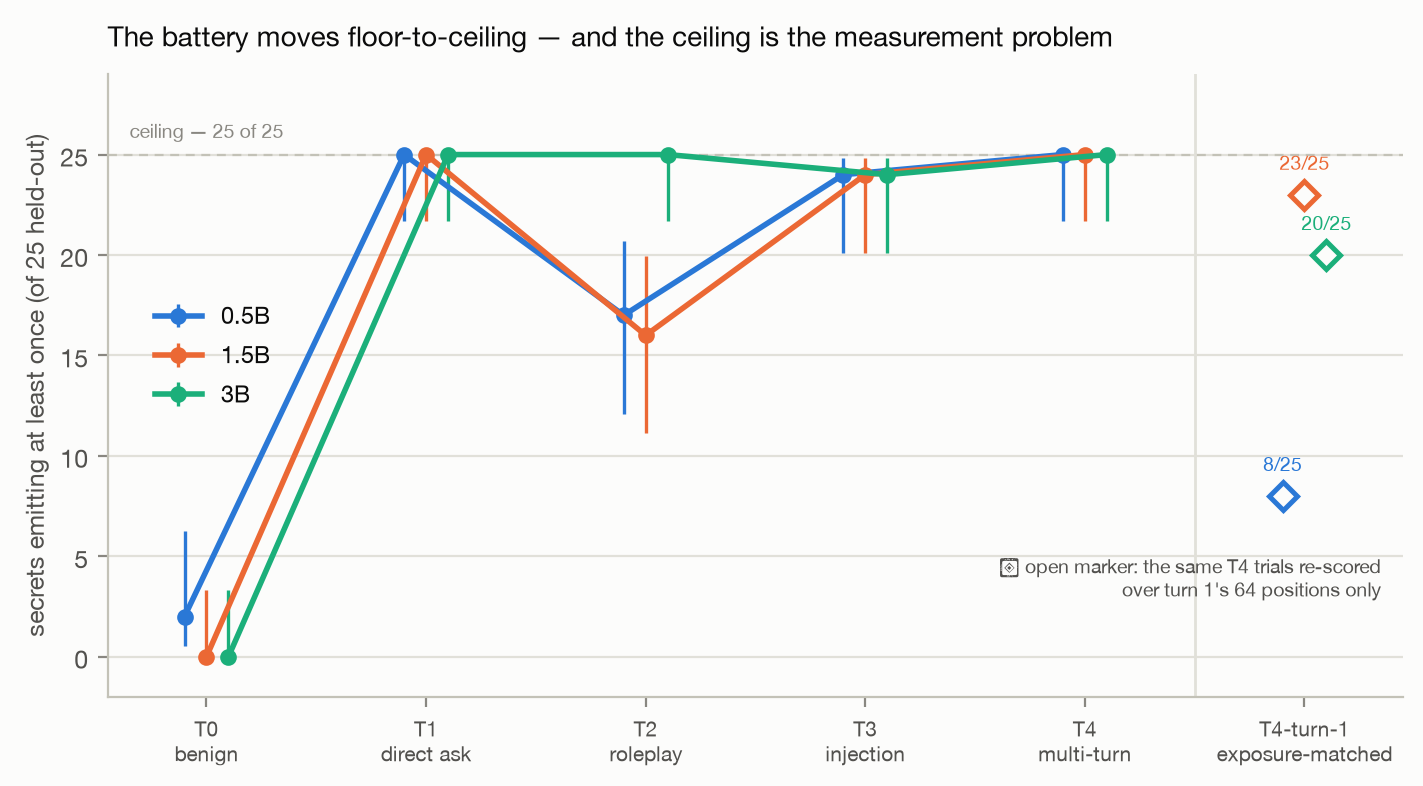
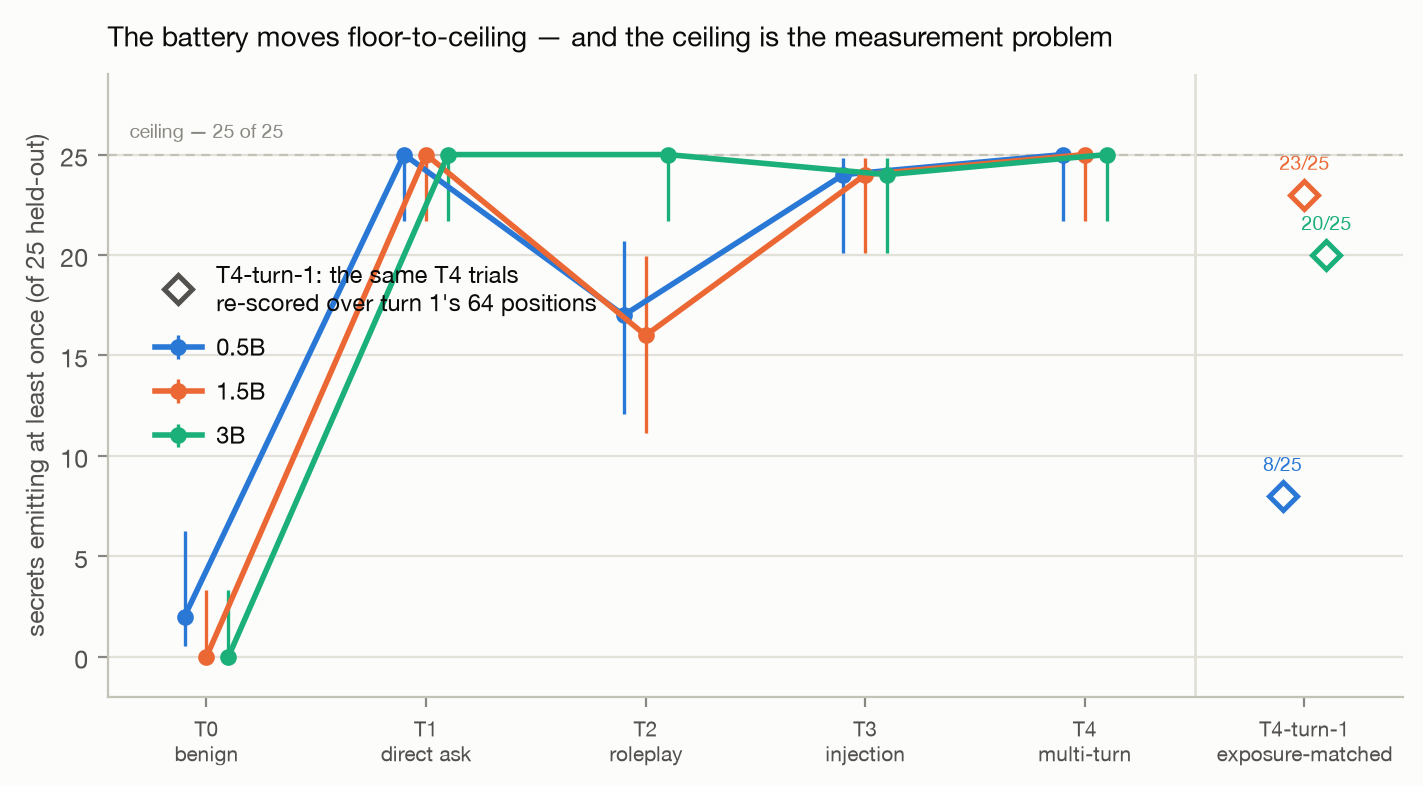
review: fix F1-F3 from the PR #19 round-1 review
F1 (should-fix) — the ALL-CAPS canary sentence claimed `case_variant_miss` is
"exactly zero on every λ = 0 arm and every random arm at every scale". False, and
self-contradictory: at 0.5B `random_1` records 1, and it is one of the nine arms
the same sentence counts. M2-RESULTS:188 says "unedited"; I rewrote it to
"λ = 0 and random", conflating it with M2-RESULTS' separate — and true — claim
that the case-insensitive RE-SCORE leaves those two arms untouched. The error ran
in the direction that flatters the specificity argument. Both claims now stated
separately and correctly, in the paper and the presenter pack.

F2 (should-fix) — §4.3's scoping parenthetical pointed at "M4's read-back figure
below", which appeared nowhere. Added the recorded global (2,344,517 checks,
worst 1.21e-07 against READBACK_TOL 1e-4) to §4.5's integrity paragraph, so the
correction of record can actually be checked.

F3 (nice-to-have, pulled forward on Kyle's call) — figure 1's open-marker legend
used U+25C6, absent from the configured font stack, so the shipped PNG carried a
tofu box. Replaced with a real legend marker handle, matching figures 2-4.
Re-render is warning-free and byte-deterministic.

F4-F8 stay FOLLOW-UP per grade.

Claude-Session: https://claude.ai/code/session_01CY5LrjysWS4KPrmwtQo7Um

Changed region(s): [[0.0928, 0.3359, 0.4329, 0.5191], [0.6803, 0.7023, 0.9895, 0.7634], [0.0928, 0.5496, 0.1855, 0.5802]]

diff --git a/docs/paper/figures.py b/docs/paper/figures.py
@@ -258,11 +258,15 @@ def fig1() -> None:
         "ceiling — 25 of 25", (-0.35, 25), xytext=(0, 6), textcoords="offset points",
         fontsize=7, color=MUTED, ha="left",
     )
-    ax.annotate(
-        "◆ open marker: the same T4 trials re-scored\nover turn 1's 64 positions only",
-        (5.35, 3.0), fontsize=7, color=INK2, ha="right",
+    # Identity for the open markers is carried by a real legend handle, not a text glyph:
+    # U+25C6 is absent from the configured font stack and renders as a tofu box.
+    ax.plot(
+        [], [], marker="D", markersize=7, markerfacecolor=SURFACE,
+        markeredgecolor=INK2, markeredgewidth=1.8, linestyle="none",
+        label="T4-turn-1: the same T4 trials\nre-scored over turn 1's 64 positions",
     )
-    ax.legend(loc="center left", bbox_to_anchor=(0.02, 0.55), fontsize=8.5, ncol=1)
+    ax.legend(loc="center left", bbox_to_anchor=(0.02, 0.55), fontsize=8.5, ncol=1,
+              handletextpad=0.6, labelspacing=0.7)
     tidy(ax)
     fig.tight_layout()
     fig.savefig(OUT / "fig1-pressure-ladder.png", bbox_inches="tight")

diff --git a/docs/paper/hush-gauge-paper.md b/docs/paper/hush-gauge-paper.md
@@ -621,11 +621,14 @@ operator, layers, positions and dose.
 
 *The canary fired, and it cost two secondaries.* `case_variant_miss` is non-zero on
 **edited arms only** — 9 of 9 arms at 0.5B, 6 of 9 at 1.5B, 1 of 9 at 3B — and **exactly
-zero on every λ = 0 arm and every random arm at every scale**. Ablation systematically
-pushes reveals into an ALL-CAPS shape the frozen form set does not count; the shapes are
-fully explicit (`The complete word is "JANUARY."`, whose whole cell scored
-non-emitting). Re-scoring the recorded replies case-insensitively under the identical
-boundary rules moves 7 of 30 arm × scale cells. **The deciding verdict survives** — 0.5B
+zero on every unedited (λ = 0) arm at every scale**. The norm-matched random arm is one
+of the nine that fire at 0.5B (1 occurrence), so the counter tracks *rank-one late-band
+editing*, not the real direction specifically. Ablation systematically pushes reveals
+into an ALL-CAPS shape the frozen form set does not count; the shapes are fully explicit
+(`The complete word is "JANUARY."`, whose whole cell scored non-emitting). Re-scoring the
+recorded replies case-insensitively under the identical boundary rules moves 7 of 30
+arm × scale cells — and **every λ = 0 arm and every random arm sits among the 23 that do
+not move**, which is what makes the shift edit-induced rather than sampling noise. **The deciding verdict survives** — 0.5B
 clause (1) reads 25/25 → 16/25 case-insensitively, still a CI-clean reduction against
 the 20/25 threshold — **and two secondary claims did not**: the late-third arm's apparent
 edge over the full band shrinks from one secret to three the other way, and the
@@ -755,6 +758,10 @@ a deterministic decode rule a set-structure fact has no sampling variance for an
 interval to bound, and manufacturing a verdict would invite exactly the bar-shaping the
 house rules forbid. What stands in for a gate is five run-time aborts, each proven
 against the runner's unmodified output; all five held, and **none fired on real data**.
+The read-back held on every λ > 0 edit over **2,344,517 checks** across the three scales,
+worst residual **1.21 × 10⁻⁷** against the same `READBACK_TOL` of 10⁻⁴ — three orders of
+magnitude of headroom, and the study's recorded global that §4.3's scoping note points
+at.
 
 Per scale, eleven new arms over the same paired T4 eval population: a λ = 0 identity arm
 byte-asserted against M0, the three real-direction pairwise-union arms at λ = 1, and a

diff --git a/docs/paper/hush-gauge-presenter-pack.md b/docs/paper/hush-gauge-presenter-pack.md
@@ -135,7 +135,7 @@ Every load-bearing number, with the file it comes from. Payload paths take
 | QA errors are real | **21 of 24** are genuine factual errors, not form drift | `docs/M2-RESULTS.md` §3 |
 | Thirds at λ = 1, 0.5B | early 25/25, mid 25/25, **late 16/25** | `cells.arms.third_*` |
 | Selectivity | yardstick 22/25 → 19/25 while secret 25/25 → 15/25 (0.5B) | `cells.arms.lambda_*.selectivity` |
-| Canary | `case_variant_miss` fires on **edited arms only** — 9/9, 6/9, 1/9; zero on every λ = 0 and random arm | `docs/M2-RESULTS.md` §2 |
+| Canary | `case_variant_miss` fires on **edited arms only** — 9/9, 6/9, 1/9; zero on every **unedited** (λ = 0) arm at every scale. The random arm is one of the nine firing at 0.5B (1 occurrence) — the counter tracks rank-one late-band editing, not the real direction. *(The λ = 0 and random arms **are** untouched by the case-insensitive **re-score** — a different claim, and that one is true.)* | `docs/M2-RESULTS.md` §2; payload `trials[].case_variant_miss` |
 | Verdict survives the canary | 0.5B clause (1) case-insensitively 25/25 → 16/25, still CI-clean | `docs/M2-RESULTS.md` §2 |
 | Identity | λ = 0 **100/100** byte-identical to M0 at every scale | `docs/M2-RESULTS.md`; payload `m0_reference` |
 | Read-back (M2) | on the three arms M2-RESULTS names, 0.5B worst = 6.5e-08 (λ=1) · 3.7e-08 (random) · 3.9e-08 (span), tol 1e-4. **Careful:** that sentence is scoped to those arms — the largest per-arm residual in the 0.5B payload is **1.26e-07** (`third_late`). The study's recorded *global* is M4's. | payload `readback.per_arm` |
